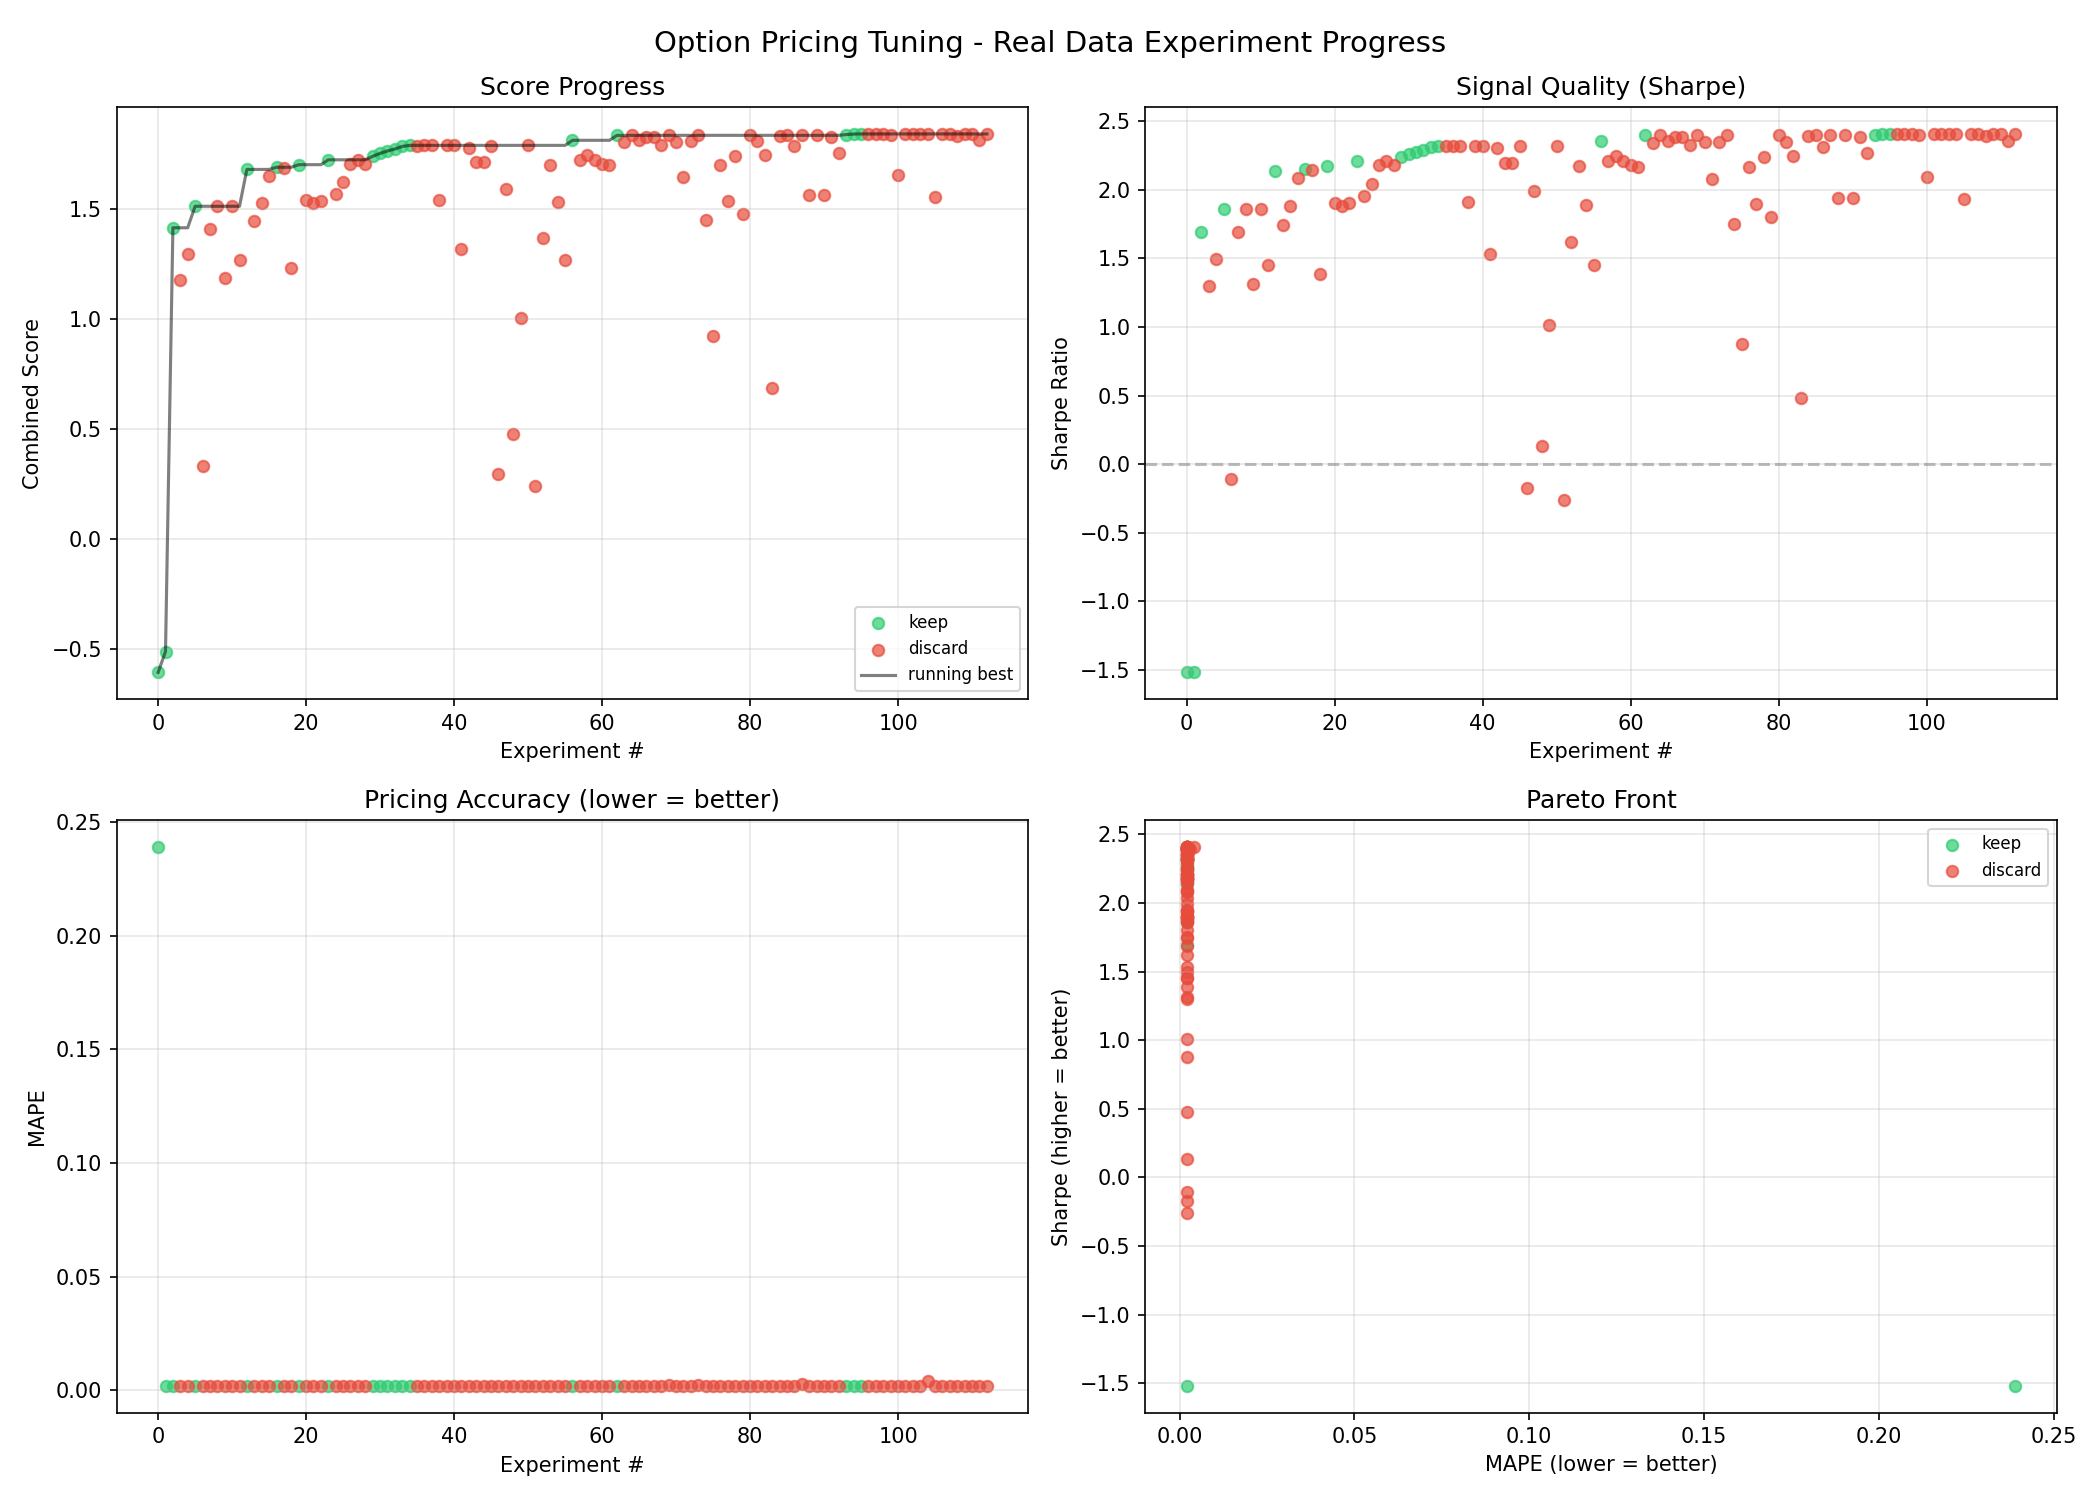
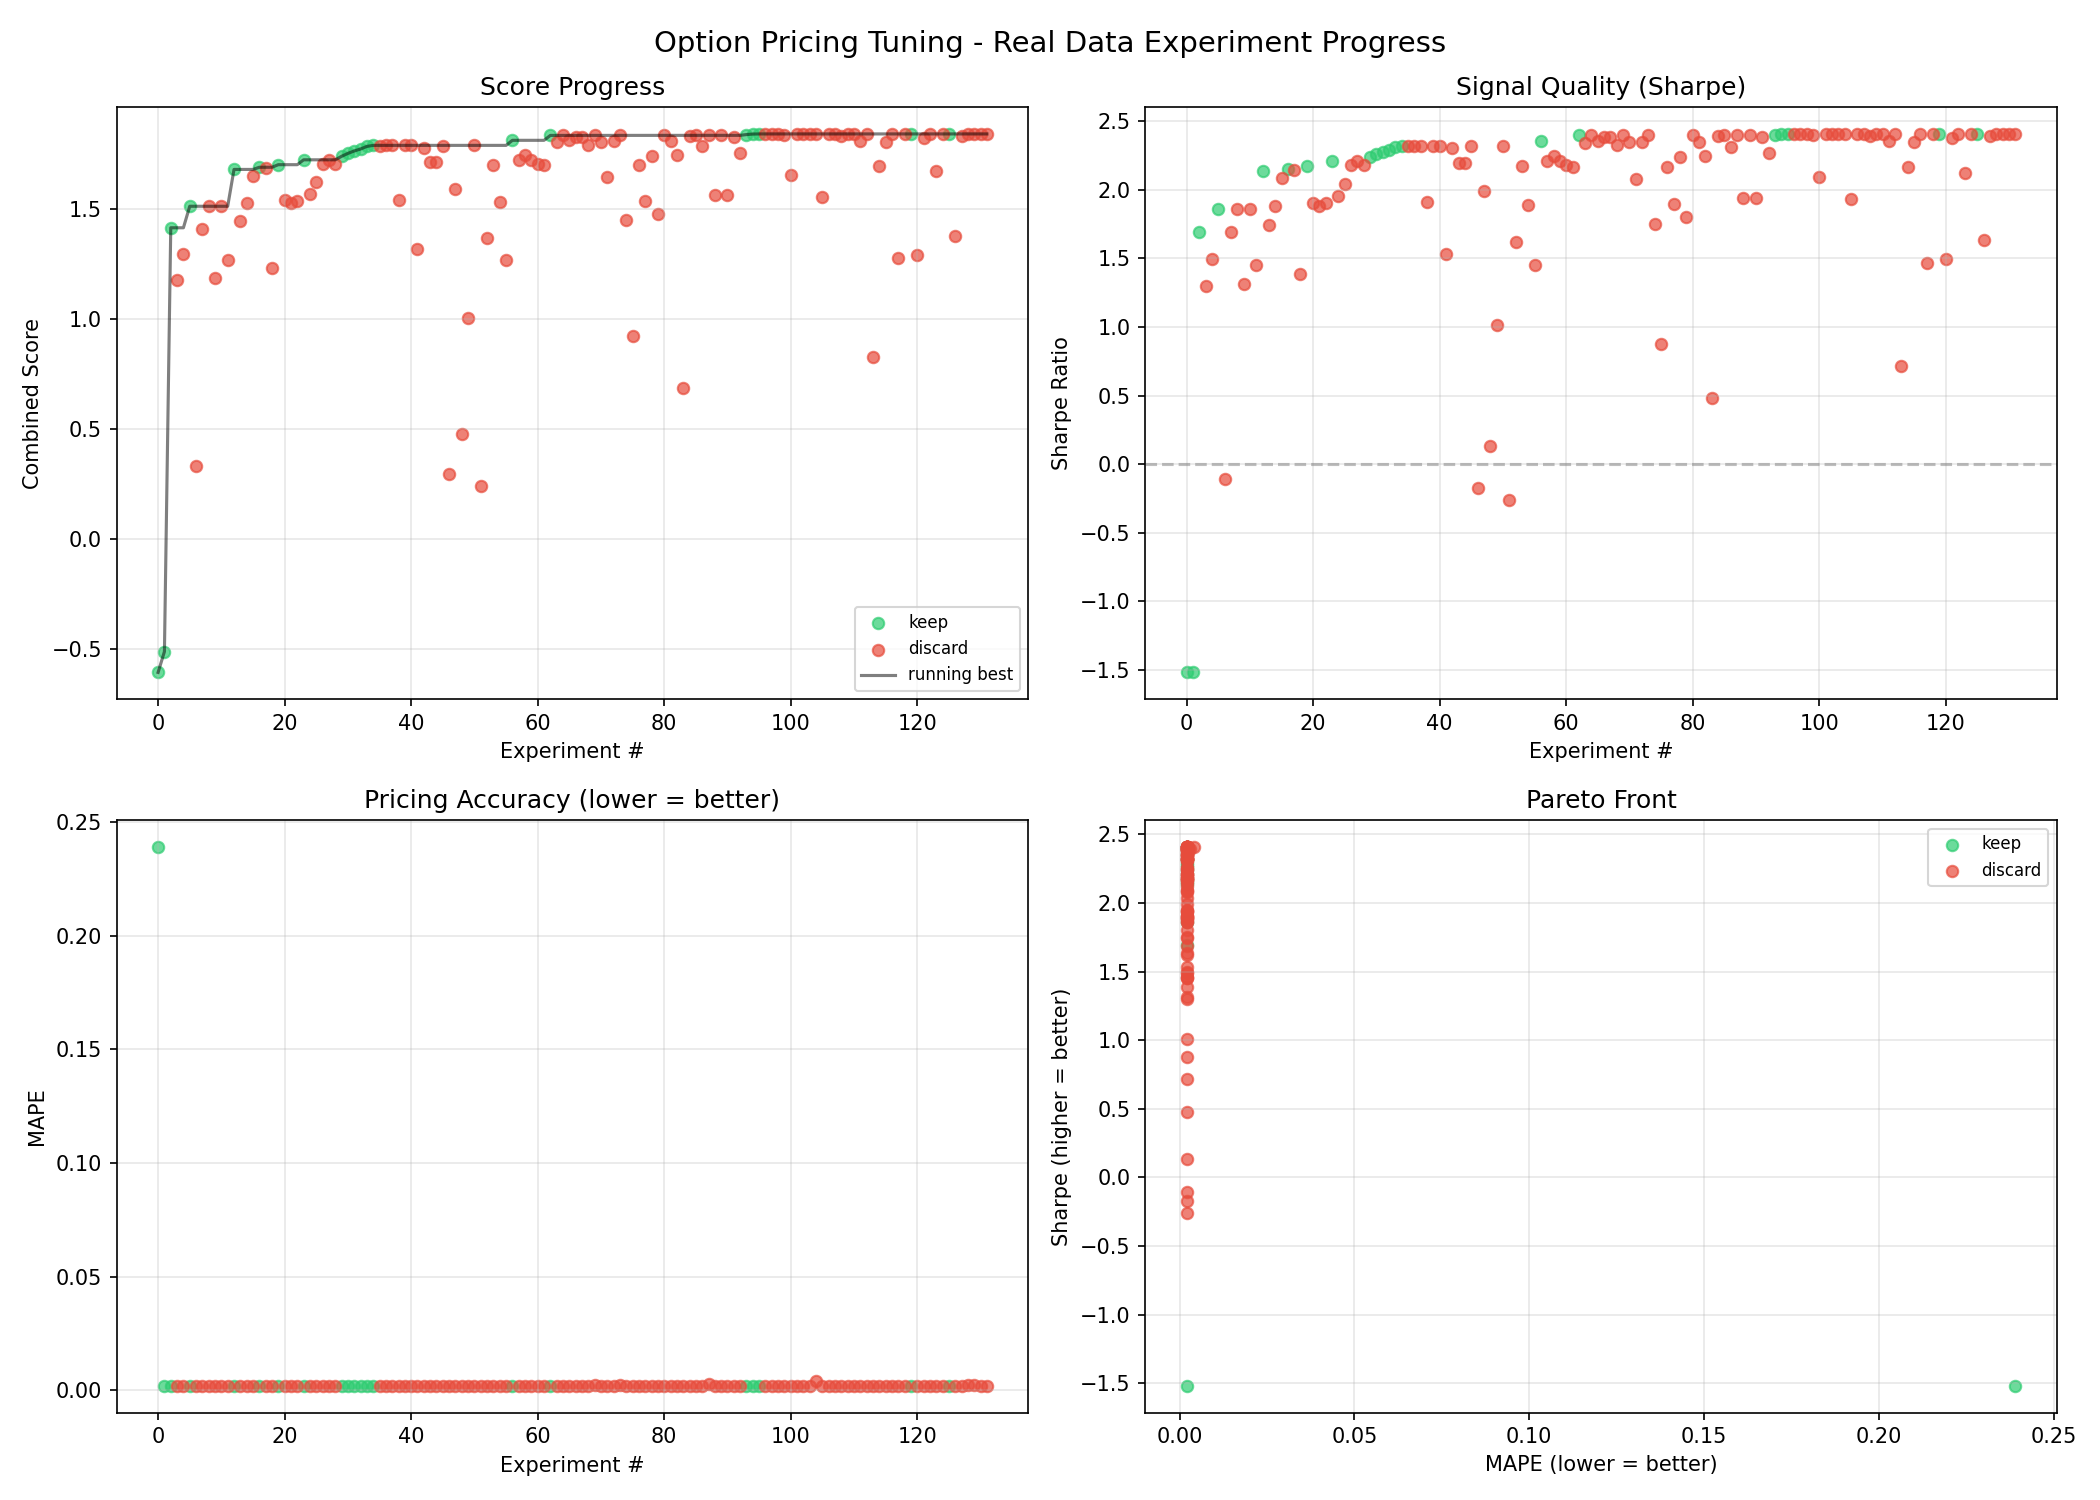
log experiments 128-131, update progress plot (score 1.8437)

diff --git a/README.md b/README.md
@@ -10,11 +10,11 @@ signals using **real stock market data** from Yahoo Finance.
 | Metric | Value |
 |---|---|
 | Combined Score | 1.8437 |
-| Sharpe Ratio | 2.4075 |
+| Sharpe Ratio | 2.4076 |
 | MAPE | 0.002026 |
 | Win Rate | 93.3% |
 | Trades | 15 |
-| Experiments | 113 (19 kept) |
+| Experiments | 132 (21 kept) |
 
 ## How It Works
 
